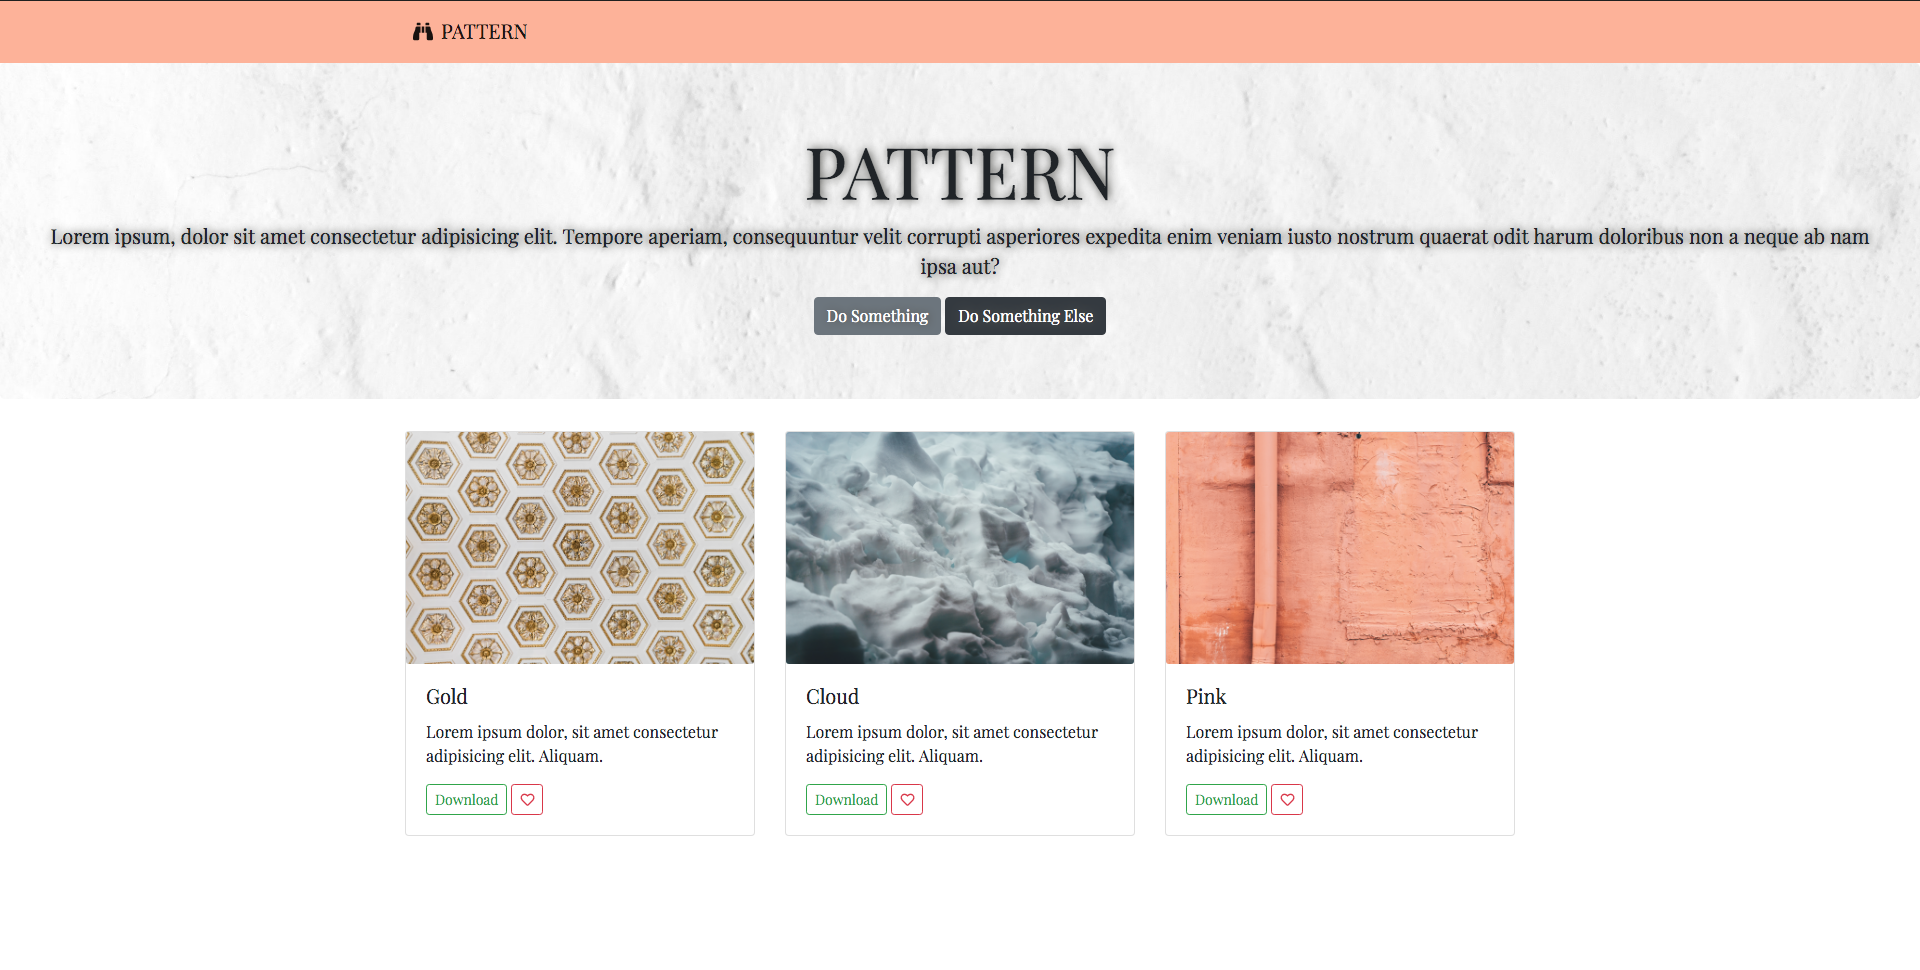
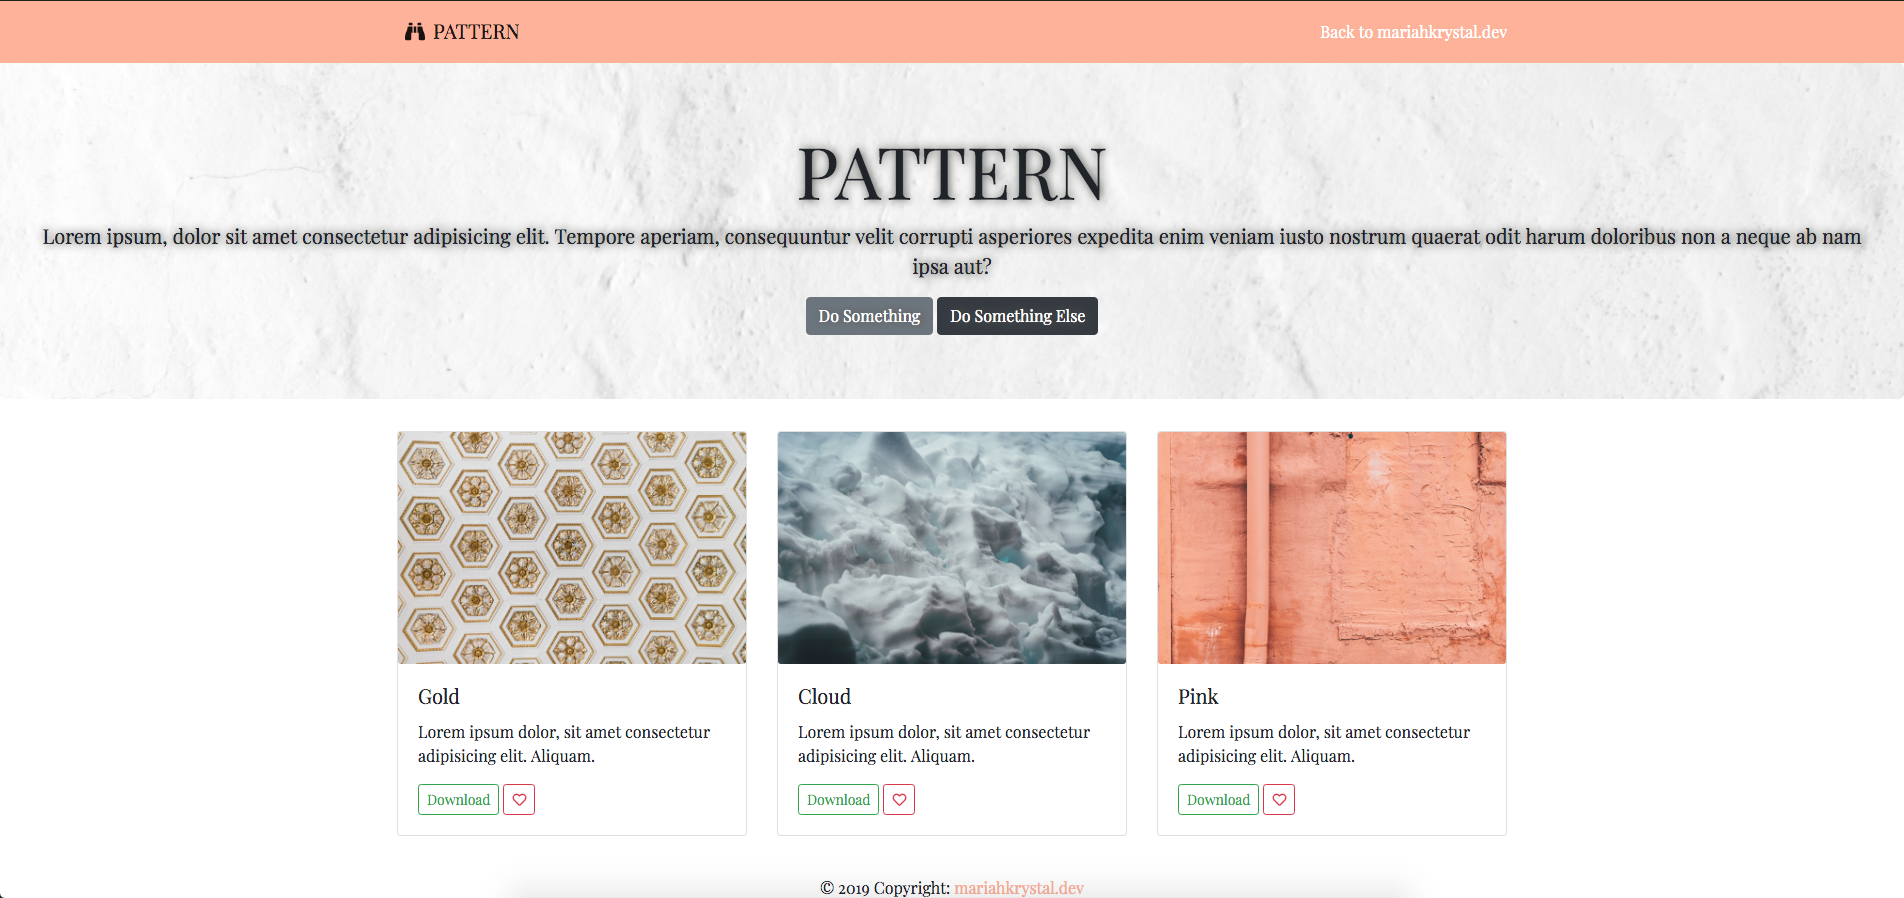
fixed padding

diff --git a/custom.css b/custom.css
@@ -22,7 +22,6 @@ a:hover {
 html {
 	height: 100%;
 }
-
 #content {
 	text-align:center;
 	padding-top: 5%;
@@ -58,7 +57,18 @@ hr {
 	width: 50%;
 	border: 0;
     height: 1px;
-    background-image: linear-gradient(to right, rgba(255, 255, 255, 0), rgba(255, 255, 255, 0.75), rgba(255, 255, 255, 0));
+    background-image: linear-gradient(to right, rgba(255, 255, 255, 0), #ed858e, rgba(255, 255, 255, 0));
+}
+
+.btn-default {
+    color: #000;
+		background-color: white;
+    border-color: none; /*set the color you want here*/
+}
+.btn-default:hover, .btn-default:focus, .btn-default:active, .btn-default.active, .open>.dropdown-toggle.btn-default {
+    color: #fff;
+    background-color: #ed858e;
+    border-color: none; /*set the color you want here*/
 }
 
 .container h1 {
@@ -95,7 +105,7 @@ hr {
 }
 
 .wrapper {
-	padding-bottom:100px;
+	padding-bottom:50px;
 }
 
 .wrapper .container #content {
